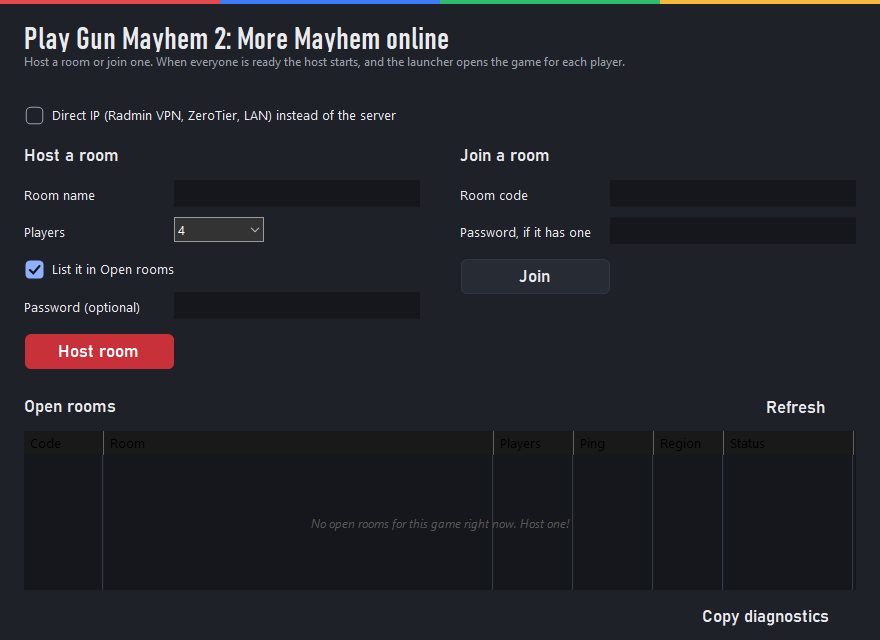
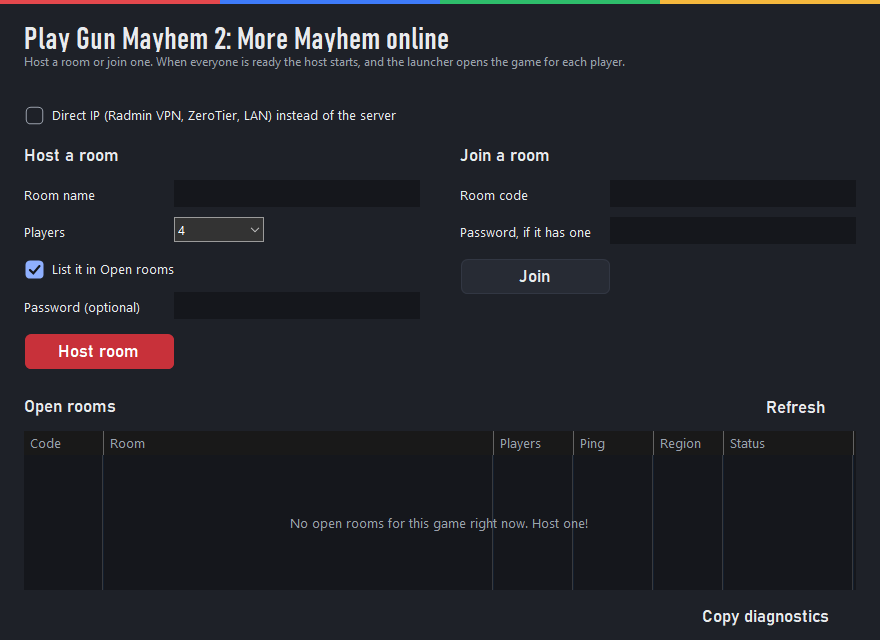
Lobby lists: readable column headers and empty-list text
The dark list theme drew both in a gray too dim to read; they now use
the theme's muted text color.

diff --git a/src/ui/launcher_lobby.cpp b/src/ui/launcher_lobby.cpp
@@ -171,6 +171,7 @@ void Launcher::openLobby(int gi) {
             c.cx = theme_.s(cols[i].second);
             ListView_InsertColumn(lv, static_cast<int>(i), &c);
         }
+        SetWindowSubclass(lv, lobbyListProc, 0, reinterpret_cast<DWORD_PTR>(this));
         page.push_back(lv);
         return lv;
     };
@@ -818,6 +819,43 @@ void Launcher::startDirectChecks(int port) {
     });
 }
 
+// The lists' column headers and the empty-list line: the dark list theme draws
+// both in a gray too dim to read, so they get the theme's own text colors.
+LRESULT CALLBACK Launcher::lobbyListProc(HWND h, UINT m, WPARAM w, LPARAM l, UINT_PTR, DWORD_PTR ref) {
+    auto* self = reinterpret_cast<Launcher*>(ref);
+    const Theme& t = self->theme_;
+    if (m == WM_NOTIFY) {
+        auto* hdr = reinterpret_cast<NMHDR*>(l);
+        if (hdr->hwndFrom == ListView_GetHeader(h) && hdr->code == NM_CUSTOMDRAW) {
+            auto* cd = reinterpret_cast<NMCUSTOMDRAW*>(l);
+            if (cd->dwDrawStage == CDDS_PREPAINT) return CDRF_NOTIFYITEMDRAW;
+            if (cd->dwDrawStage == CDDS_ITEMPREPAINT) {
+                SetTextColor(cd->hdc, t.c.textMuted.ref());
+                return CDRF_DODEFAULT;
+            }
+            return CDRF_DODEFAULT;
+        }
+    }
+    if (m == WM_PAINT && h == self->lbList_ && ListView_GetItemCount(h) == 0) {
+        LRESULT r = DefSubclassProc(h, m, w, l);
+        RECT rc, head{};
+        GetClientRect(h, &rc);
+        if (HWND hd = ListView_GetHeader(h)) GetWindowRect(hd, &head);
+        rc.top += head.bottom - head.top;
+        HDC dc = GetDC(h);
+        HGDIOBJ old = SelectObject(dc, t.body);
+        SetBkMode(dc, TRANSPARENT);
+        SetTextColor(dc, t.c.textMuted.ref());  // 6.9:1 on the list background
+        std::wstring text = self->cfg_.t("lobby.listEmpty");
+        DrawTextW(dc, text.c_str(), -1, &rc, DT_CENTER | DT_VCENTER | DT_SINGLELINE | DT_NOPREFIX);
+        SelectObject(dc, old);
+        ReleaseDC(h, dc);
+        return r;
+    }
+    if (m == WM_NCDESTROY) RemoveWindowSubclass(h, lobbyListProc, 0);
+    return DefSubclassProc(h, m, w, l);
+}
+
 // ---- messages ---------------------------------------------------------------------
 
 LRESULT CALLBACK Launcher::lobbyProc(HWND h, UINT m, WPARAM w, LPARAM l) {
@@ -914,13 +952,6 @@ LRESULT Launcher::lobbyHandle(HWND h, UINT m, WPARAM w, LPARAM l) {
                     lobbyJoin(code, windowText(lbJoinPw_), false);
                 }
                 return 0;
-            }
-            if (hdr->hwndFrom == lbList_ && hdr->code == LVN_GETEMPTYMARKUP) {
-                auto* em = reinterpret_cast<NMLVEMPTYMARKUP*>(l);
-                em->dwFlags = EMF_CENTERED;
-                wcsncpy_s(em->szMarkup, cfg_.t("lobby.listEmpty").c_str(), _TRUNCATE);
-                SetWindowLongPtrW(h, DWLP_MSGRESULT, TRUE);
-                return TRUE;
             }
             if (hdr->hwndFrom == lbPlayers_ && hdr->code == LVN_ITEMCHANGED) {
                 updateLobbyRoom();

diff --git a/src/ui/launcher.h b/src/ui/launcher.h
@@ -363,6 +363,7 @@ private:
     // The lobby window (launcher_lobby.cpp) for games with online.lobby: host or
     // join a room, ready up, chat; the host starts and every launcher opens the game.
     static LRESULT CALLBACK lobbyProc(HWND h, UINT m, WPARAM w, LPARAM l);
+    static LRESULT CALLBACK lobbyListProc(HWND h, UINT m, WPARAM w, LPARAM l, UINT_PTR id, DWORD_PTR self);
     LRESULT lobbyHandle(HWND h, UINT m, WPARAM w, LPARAM l);
     void openLobby(int gameIndex);
     void closeLobby();
